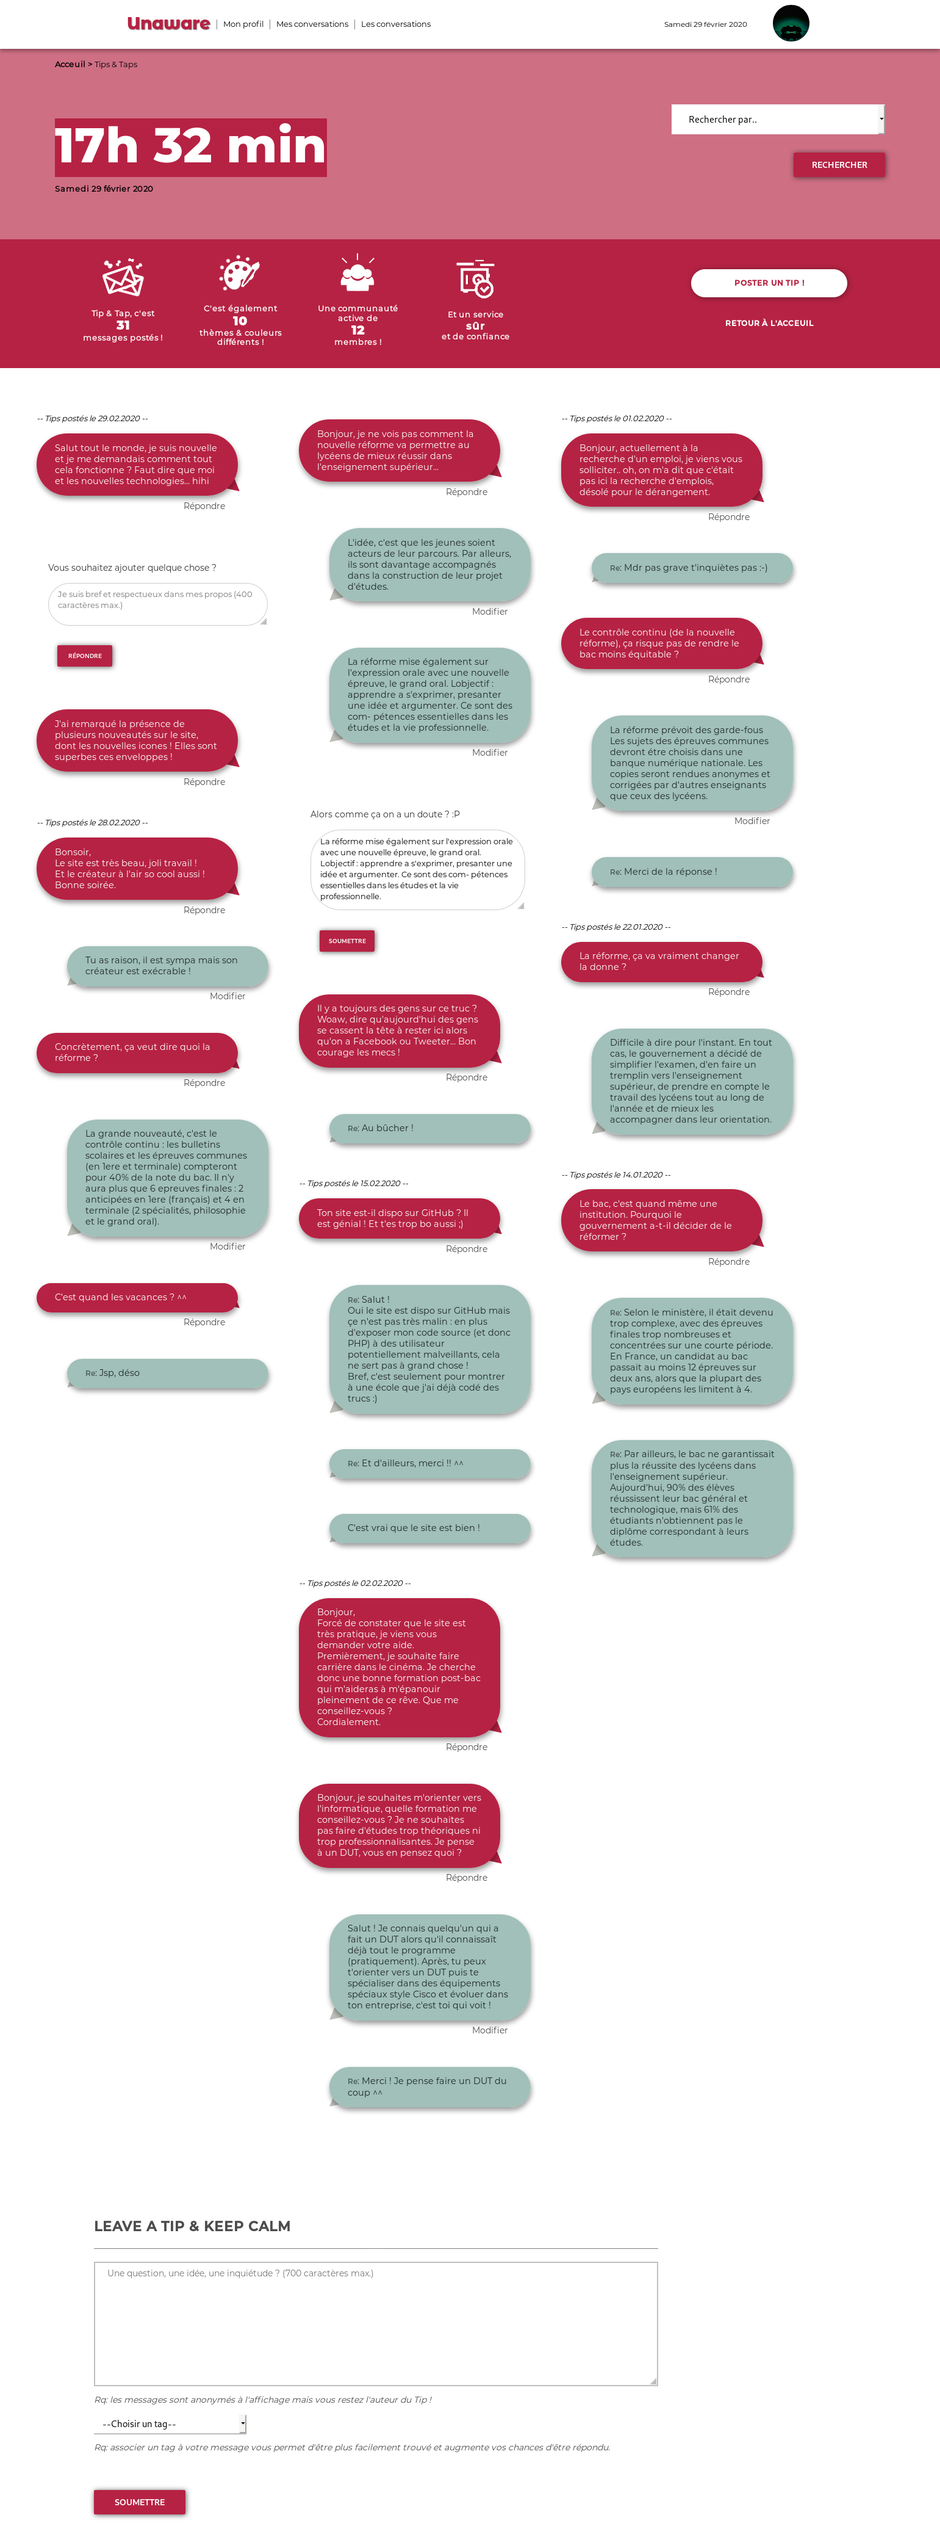
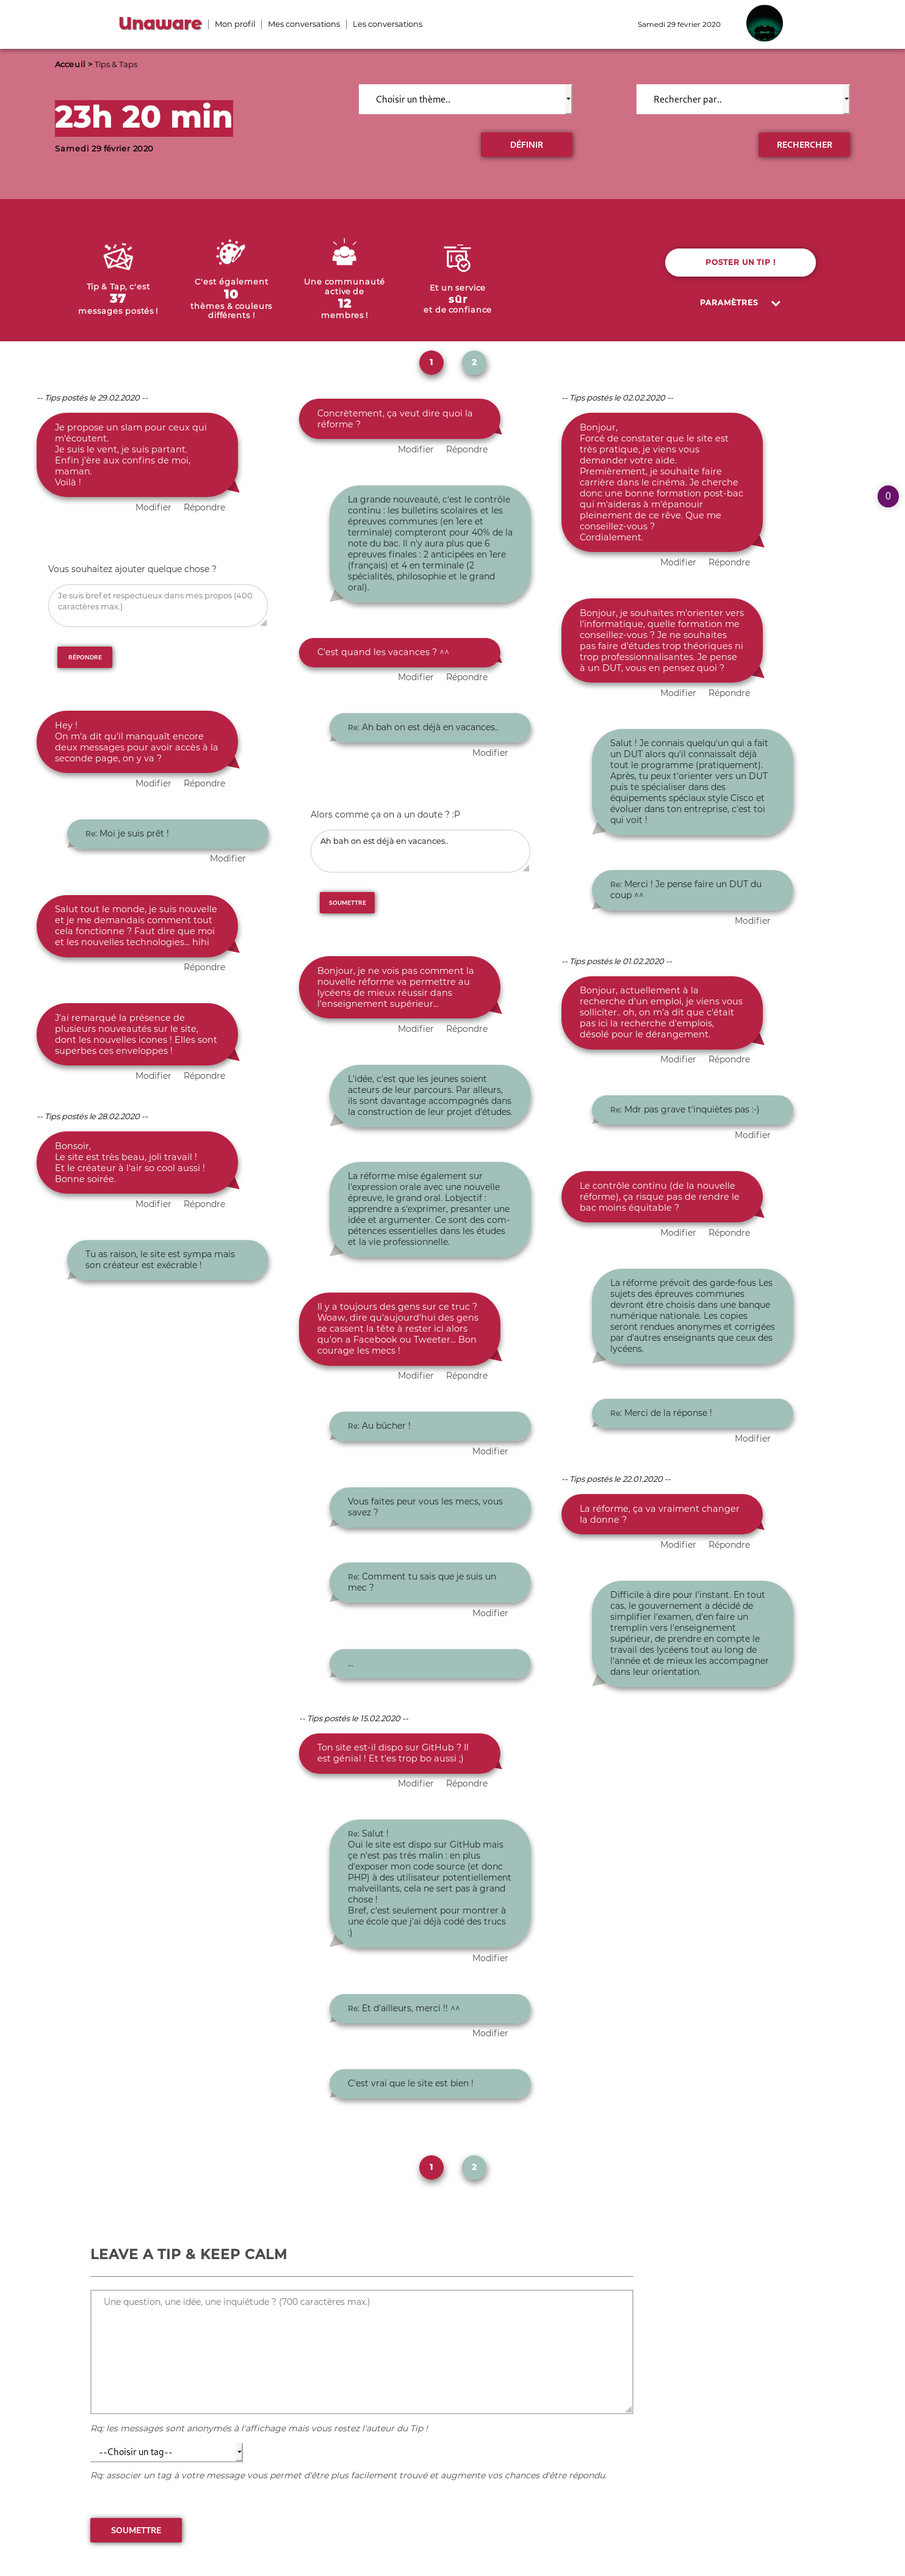
Add setting menu & visual improvements in TipTap

diff --git a/tiptap/style_tiptap.css b/tiptap/style_tiptap.css
@@ -76,6 +76,11 @@ h1
 	transition: box-shadow 0.2s;
 }
 
+.hide_div
+{
+	display: block;
+}
+
 .infos
 {
 	display: flex;
@@ -99,7 +104,7 @@ h1
 .hour
 {
 	font-family: 'montserrat_alternatesXBd', 'montserratsemibold', 'montserratregular', 'Arial';
-	font-size: 80px;
+	font-size: 50px;
 	margin-bottom: 10px;
 	background-color: var(--tip-color);
 	color: white;
@@ -177,6 +182,7 @@ h1
 	align-items: center;
 	background-color: var(--tip-color);
 	margin: 0px;
+	padding-top: 42px;
 }
 
 #dock_infos_block1
@@ -266,6 +272,30 @@ h1
 	transition: background-color 0.2s;
 }
 
+#dock_infos_block2 #linkTwo:hover img, #dock_infos_block2 #linkTwo:active img
+{
+	transform: rotate(90deg);
+	transition: transform ease-in-out 0.2s;
+}
+
+#dock_infos_block2 #linkTwo
+{
+	display: flex;
+	justify-content: center;
+	flex-direction: row;
+	align-self: center;
+	align-items: center;
+	padding: 12px 20px;
+}
+
+#dock_infos_block2 #linkTwo img
+{
+	width: 17px;
+	margin-left: 20px;
+	transform: rotate(-90deg);
+	transition: transform ease-in-out 0.2s;
+}
+
 .paging_system
 {
 	height: 50px;
@@ -286,11 +316,16 @@ h1
 	line-height: 40px;
 	margin: 10px 15px;
 	border-radius: 50px;
-	background-color: var(--tip-color);
+	background-color: var(--tap-color);
 	box-shadow: 1px 5px 10px rgba(0, 0, 0, 0.5);
 	font-size: 14px;
 	font-family: 'montserrat_alternatesXBd', 'montserratsemibold', 'montserratregular', 'Arial';
 	transition: box-shadow 0.2s;
+}
+
+.paging_system .actualPage
+{
+	background-color: var(--tip-color);
 }
 
 .paging_system a:hover

diff --git a/tiptap/anim_tiptap.js b/tiptap/anim_tiptap.js
@@ -1,5 +1,7 @@
+$i = 0;
 $('.msgNoJs').text('Cacher le message');
 $('#alea').css('display', 'none');
+
 
 function resize(textarea) {
     var txt = textarea.value;
@@ -31,6 +33,12 @@ $('.msgNoJs').on('click', function() {
 $('.menu').on('click', function() {
 	$('#options_menu').slideToggle(150).css('display', 'block');
 	$(this).toggle(150).toggle(150);
+});
+
+$('#linkTwo').on('click', function() {
+	// Faire une condition pour incrémenter $i à chaque fois et rétablir le padding;
+	// $('#dock_infos').css('padding-top', '0');
+	$('.hide_div').slideToggle().css('display', 'block');
 });
 
 $("header a").on('click', function() {

diff --git a/color/color_blue.css b/color/color_blue.css
@@ -7,8 +7,8 @@
 	
 	/* Tip & Tap */
 	--bg-tiptop: #9babb0;
-	--tip-color: rgba(119, 95, 237, 1);
-	--tip-color-opacity75: rgba(119, 95, 237, 0.65);
-	--tip-color-opacity25: rgba(119, 95, 237, 0.25);
+	--tip-color: rgba(30, 108, 219, 1);
+	--tip-color-opacity75: rgba(30, 108, 219, 0.65);
+	--tip-color-opacity25: rgba(30, 108, 219, 0.25);
 	--tap-color: rgba(160, 192, 185, 1);
 }

diff --git a/color/color_pale_green.css b/color/color_pale_green.css
@@ -7,8 +7,8 @@
 	
 	/* Tip & Tap */
 	--bg-tiptop: #9babb0;
-	--tip-color: rgba(119, 95, 237, 1);
-	--tip-color-opacity75: rgba(119, 95, 237, 0.65);
-	--tip-color-opacity25: rgba(119, 95, 237, 0.25);
+	--tip-color: rgba(31, 222, 176, 1);
+	--tip-color-opacity75: rgba(31, 222, 176, 0.65);
+	--tip-color-opacity25: rgba(31, 222, 176, 0.25);
 	--tap-color: rgba(160, 192, 185, 1);
 }

diff --git a/color/color_pink.css b/color/color_pink.css
@@ -7,8 +7,8 @@
 	
 	/* Tip & Tap */
 	--bg-tiptop: #9babb0;
-	--tip-color: rgba(119, 95, 237, 1);
-	--tip-color-opacity75: rgba(119, 95, 237, 0.65);
-	--tip-color-opacity25: rgba(119, 95, 237, 0.25);
+	--tip-color: rgba(182, 29, 204, 1);
+	--tip-color-opacity75: rgba(182, 29, 204, 0.65);
+	--tip-color-opacity25: rgba(182, 29, 204, 0.25);
 	--tap-color: rgba(160, 192, 185, 1);
 }

diff --git a/color/color_green.css b/color/color_green.css
@@ -7,8 +7,8 @@
 	
 	/* Tip & Tap */
 	--bg-tiptop: #9babb0;
-	--tip-color: rgba(119, 95, 237, 1);
-	--tip-color-opacity75: rgba(119, 95, 237, 0.65);
-	--tip-color-opacity25: rgba(119, 95, 237, 0.25);
+	--tip-color: rgba(36, 183, 17, 1);
+	--tip-color-opacity75: rgba(36, 183, 17, 0.65);
+	--tip-color-opacity25: rgba(36, 183, 17, 0.25);
 	--tap-color: rgba(160, 192, 185, 1);
 }

diff --git a/color/color_green_blue.css b/color/color_green_blue.css
@@ -7,8 +7,8 @@
 	
 	/* Tip & Tap */
 	--bg-tiptop: #9babb0;
-	--tip-color: rgba(119, 95, 237, 1);
-	--tip-color-opacity75: rgba(119, 95, 237, 0.65);
-	--tip-color-opacity25: rgba(119, 95, 237, 0.25);
+	--tip-color: rgba(3, 132, 144, 1);
+	--tip-color-opacity75: rgba(3, 132, 144, 0.65);
+	--tip-color-opacity25: rgba(3, 132, 144, 0.25);
 	--tap-color: rgba(160, 192, 185, 1);
 }

diff --git a/color/color_red.css b/color/color_red.css
@@ -7,8 +7,8 @@
 	
 	/* Tip & Tap */
 	--bg-tiptop: #9babb0;
-	--tip-color: rgba(119, 95, 237, 1);
-	--tip-color-opacity75: rgba(119, 95, 237, 0.65);
-	--tip-color-opacity25: rgba(119, 95, 237, 0.25);
+	--tip-color: rgba(182, 34, 67, 1);
+	--tip-color-opacity75: rgba(182, 34, 67, 0.65);
+	--tip-color-opacity25: rgba(182, 34, 67, 0.25);
 	--tap-color: rgba(160, 192, 185, 1);
 }

diff --git a/color/color_brown.css b/color/color_brown.css
@@ -7,8 +7,8 @@
 	
 	/* Tip & Tap */
 	--bg-tiptop: #9babb0;
-	--tip-color: rgba(119, 95, 237, 1);
-	--tip-color-opacity75: rgba(119, 95, 237, 0.65);
-	--tip-color-opacity25: rgba(119, 95, 237, 0.25);
+	--tip-color: rgba(138, 59, 0, 1);
+	--tip-color-opacity75: rgba(138, 59, 0, 0.65);
+	--tip-color-opacity25: rgba(138, 59, 0, 0.25);
 	--tap-color: rgba(160, 192, 185, 1);
 }

diff --git a/color/color_dark_green.css b/color/color_dark_green.css
@@ -7,8 +7,8 @@
 	
 	/* Tip & Tap */
 	--bg-tiptop: #9babb0;
-	--tip-color: rgba(119, 95, 237, 1);
-	--tip-color-opacity75: rgba(119, 95, 237, 0.65);
-	--tip-color-opacity25: rgba(119, 95, 237, 0.25);
+	--tip-color: rgba(6, 152, 89, 1);
+	--tip-color-opacity75: rgba(6, 152, 89, 0.65);
+	--tip-color-opacity25: rgba(6, 152, 89, 0.25);
 	--tap-color: rgba(160, 192, 185, 1);
 }

diff --git a/color/color_oreo.css b/color/color_oreo.css
@@ -7,8 +7,8 @@
 	
 	/* Tip & Tap */
 	--bg-tiptop: #9babb0;
-	--tip-color: rgba(119, 95, 237, 1);
-	--tip-color-opacity75: rgba(119, 95, 237, 0.65);
-	--tip-color-opacity25: rgba(119, 95, 237, 0.25);
+	--tip-color: rgba(36, 36, 36, 1);
+	--tip-color-opacity75: rgba(36, 36, 36, 0.65);
+	--tip-color-opacity25: rgba(36, 36, 36, 0.25);
 	--tap-color: rgba(160, 192, 185, 1);
 }

diff --git a/tiptap/tiptap_view.php b/tiptap/tiptap_view.php
@@ -3,7 +3,7 @@
 <head>
 	<meta charset='utf-8' />
 	<title>Unaware - Acceuil membres</title>
-	<link href='../color/color_purple.css' rel='stylesheet' />
+	<link href='../color/<?= $color; ?>' rel='stylesheet' />
 	<link href='style_tiptap.css' rel='stylesheet' />
 	<link href='../goodies/style_dock.css' rel='stylesheet' />
 </head>
@@ -27,46 +27,67 @@
 			</div>
 		<?php } ?>
 
-		<div class='infos'>
-			<div class='infos_date'>
-				<p class='repere'><strong><a href='../index.php'>Acceuil</a> ></strong> Tips & Taps</p>
-				<p class='hour'><?= date('H'); ?>h <?= date('i'); ?> min<br /></p>
-				<p class='date_info'><?php include('../goodies/date.php'); ?></p>
-			</div>
+		<div class='hide_div'>
+			<div class='infos'>
+				<div class='infos_date'>
+					<p class='repere'><strong><a href='../index.php'>Acceuil</a> ></strong> Tips & Taps</p>
+					<p class='hour'><?= date('H'); ?>h <?= date('i'); ?> min<br /></p>
+					<p class='date_info'><?php include('../goodies/date.php'); ?></p>
+				</div>
 
-			<div class='infos_form'>
-				<form method='GET' action='tiptap_control.php'>
-					<select name='choose_tags' onchange='this.blur()' class='choose_tags'>
-						<option><em>Rechercher par..</em></option>
-						<?php ob_start(); ?>
-							<option value="Licences et Licences pro">Licences et Licences pro</option>
-							<option value="Dentaire">Dentaire</option>
-							<option value="Médecine">Médecine</option>
-							<option value="Pharmacie">Pharmacie</option>
-							<option value="Maïeutique">Maïeutique</option>
-							<option value="Kinésithérapie">Kinésithérapie</option>
-							<option value="Paramédical">Paramédical</option>
-							<option value="DEUST">DEUST</option>
-							<option value="DUT">DUT</option>
-							<option value="Design (lycée)">Design (lycée)</option>
-							<option value="BTS">BTS</option>
-							<option value="Prépa sciences">Prépa sciences</option>
-							<option value="Prépa éco">Prépa éco</option>
-							<option value="Prépa lettres">Prépa lettres</option>
-							<option value="Grandes écoles post bac (Ingénieurs, commerce, arts...)">Grandes écoles post bac (Ingénieurs, commerce, arts...)</option>
-							<option value="Institut d'études politiques">Institut d'études politiques</option>
-							<option value="Comptabilité">Comptabilité</option>
-							<option value="Social">Social</option>
-							<option value="Paramédical">Paramédical</option>
-							<option value="Design (école)">Design (école)</option>
-							<option value="Beaux-Arts">Beaux-Arts</option>
-							<option value="Architecture">Architecture</option>
-							<option value="Autres écoles (vente, industrie, tourisme, transports, communication...)">Autres écoles (vente, industrie, tourisme, transports, communication...)</option>
-						<?php $tags = ob_get_clean();
-						echo $tags; ?>
-					</select>
-					<input type='submit' class='submit' value='Rechercher' />
-				</form>
+				<div class='infos_form'>
+					<form method='GET' action='tiptap_control.php'>
+						<select name='choose_color' onchange='this.blur()' class='choose_tags' required>
+							<option><em>Choisir un thème..</em></option>
+							<option value="1">Bleu</option>
+							<option value="2">Marron</option>
+							<option value="3">Vert foncé</option>
+							<option value="4">Vert</option>
+							<option value="5">Vert - bleu</option>
+							<option value="6">Oréo</option>
+							<option value="7">Vert pâle</option>
+							<option value="8">Rose</option>
+							<option value="9">Violet</option>
+							<option value="10">Rouge</option>
+						</select>
+						<input type='submit' class='submit' value='Définir' />
+					</form>
+				</div>
+
+				<div class='infos_form'>
+					<form method='GET' action='tiptap_control.php'>
+						<select name='choose_tags' onchange='this.blur()' class='choose_tags'>
+							<option><em>Rechercher par..</em></option>
+							<?php ob_start(); ?>
+								<option value="Licences et Licences pro">Licences et Licences pro</option>
+								<option value="Dentaire">Dentaire</option>
+								<option value="Médecine">Médecine</option>
+								<option value="Pharmacie">Pharmacie</option>
+								<option value="Maïeutique">Maïeutique</option>
+								<option value="Kinésithérapie">Kinésithérapie</option>
+								<option value="Paramédical">Paramédical</option>
+								<option value="DEUST">DEUST</option>
+								<option value="DUT">DUT</option>
+								<option value="Design (lycée)">Design (lycée)</option>
+								<option value="BTS">BTS</option>
+								<option value="Prépa sciences">Prépa sciences</option>
+								<option value="Prépa éco">Prépa éco</option>
+								<option value="Prépa lettres">Prépa lettres</option>
+								<option value="Grandes écoles post bac (Ingénieurs, commerce, arts...)">Grandes écoles post bac (Ingénieurs, commerce, arts...)</option>
+								<option value="Institut d'études politiques">Institut d'études politiques</option>
+								<option value="Comptabilité">Comptabilité</option>
+								<option value="Social">Social</option>
+								<option value="Paramédical">Paramédical</option>
+								<option value="Design (école)">Design (école)</option>
+								<option value="Beaux-Arts">Beaux-Arts</option>
+								<option value="Architecture">Architecture</option>
+								<option value="Autres écoles (vente, industrie, tourisme, transports, communication...)">Autres écoles (vente, industrie, tourisme, transports, communication...)</option>
+							<?php $tags = ob_get_clean();
+							echo $tags; ?>
+						</select>
+						<input type='submit' class='submit' value='Rechercher' />
+					</form>
+				</div>
 			</div>
 		</div>
 
@@ -93,7 +114,7 @@
 
 			<div id='dock_infos_block2'>
 				<a href='tiptap_control.php#reponse' id='linkOne'>Poster un Tip !</a>
-				<a href='../index.php' id='linkTwo'>Retour à l'acceuil</a>
+				<a id='linkTwo'>Paramètres<img src='../pictures/fleche_left.png' /></a>
 			</div>
 		</div>
 
@@ -101,14 +122,14 @@
 			<div class='paging_system'>
 				<?php for ($i = 1; $i <= $nbOfPages; $i++) { ?>
 					<?php if ($i == $page) { ?>
-						<a href='tiptap_control.php?page=<?= $i; ?><?php if (isset($choose_tags)) { echo "&choose_tags=" . $choose_tags . ""; } ?>' class='actualPage'><?= $i ?></p>
+						<a href='tiptap_control.php?page=<?= $i; ?><?php if (isset($choose_tags)) { echo "&choose_tags=" . $choose_tags . ""; } ?>' class='actualPage'><?= $i ?></a>
 					<?php } else { ?>
-						<a href='tiptap_control.php?page=<?= $i; ?><?php if (isset($choose_tags)) { echo "&choose_tags=" . $choose_tags . ""; } ?>'><?= $i ?></p>
+						<a href='tiptap_control.php?page=<?= $i; ?><?php if (isset($choose_tags)) { echo "&choose_tags=" . $choose_tags . ""; } ?>'><?= $i ?></a>
 					<?php } ?>
 				<?php } ?>
 			</div>
-		<?php $paging_system = ob_get_clean(); ?>
-		<?= $paging_system; ?>
+		<?php $paging_system = ob_get_clean();
+		echo $paging_system; ?>
 
 		<div class='msg'>
 			<!-- Contain all messages that was posted on tree (max.) columns -->
